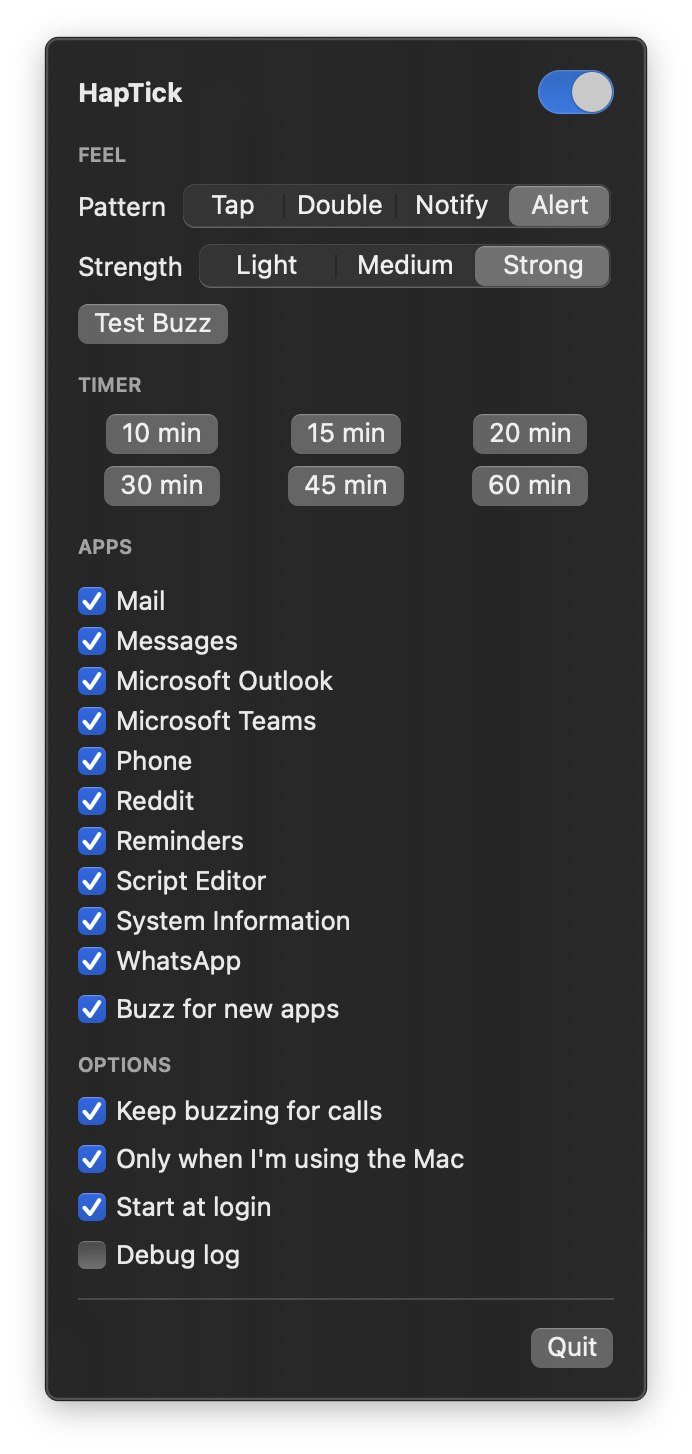
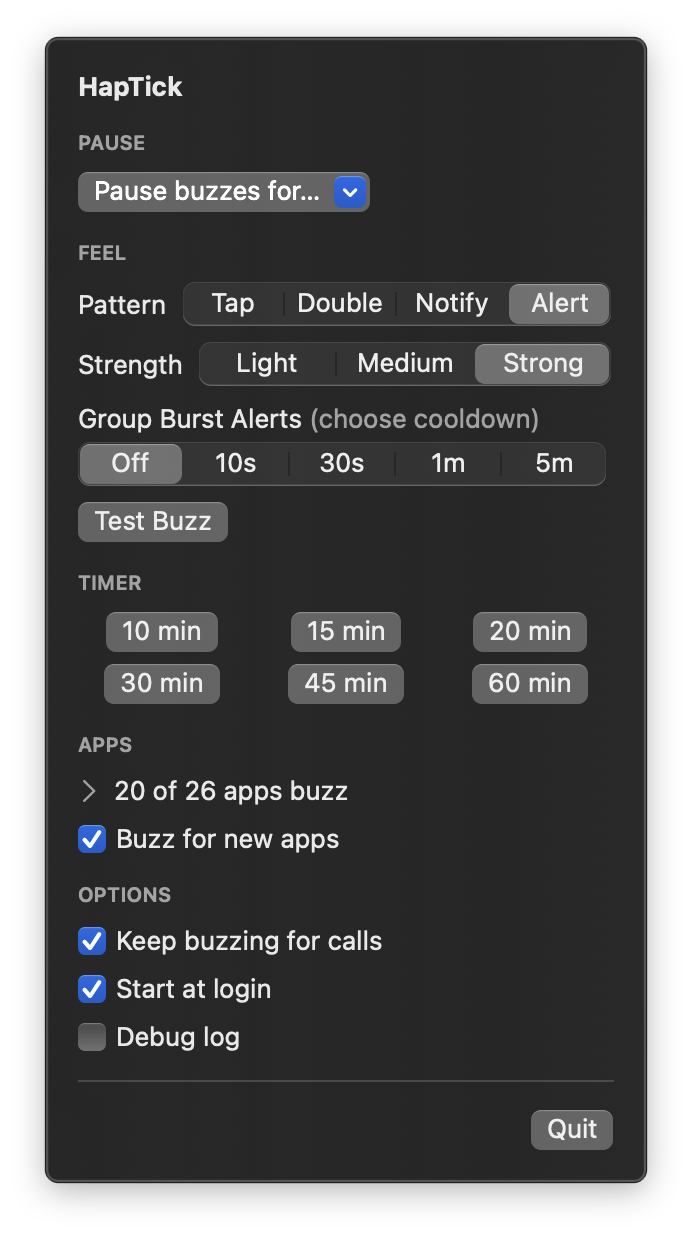
Update README screenshots for 1.1

Changed region(s): [[0.0607, 0.0, 0.9408, 0.8916], [0.0607, 0.8916, 0.9408, 0.9838], [0.6676, 0.4919, 0.8497, 0.5841]]

diff --git a/README.md b/README.md
@@ -4,7 +4,11 @@ Feel your notifications. HapTick is a tiny macOS menu bar app that buzzes your M
 Force Touch trackpad (the Taptic Engine) when a notification arrives — WhatsApp, Outlook,
 Teams, Calendar, anything that shows a banner — so you notice it even with the sound off.
 
-<p align="center"><img src="docs/screenshot.png" alt="HapTick menu bar panel" width="346"></p>
+<p align="center">
+  <img src="docs/screenshot.png" alt="HapTick menu bar panel" width="300">
+  &nbsp;&nbsp;
+  <img src="docs/screenshot-apps.png" alt="HapTick panel with the app list expanded" width="300">
+</p>
 
 ## Features
 
